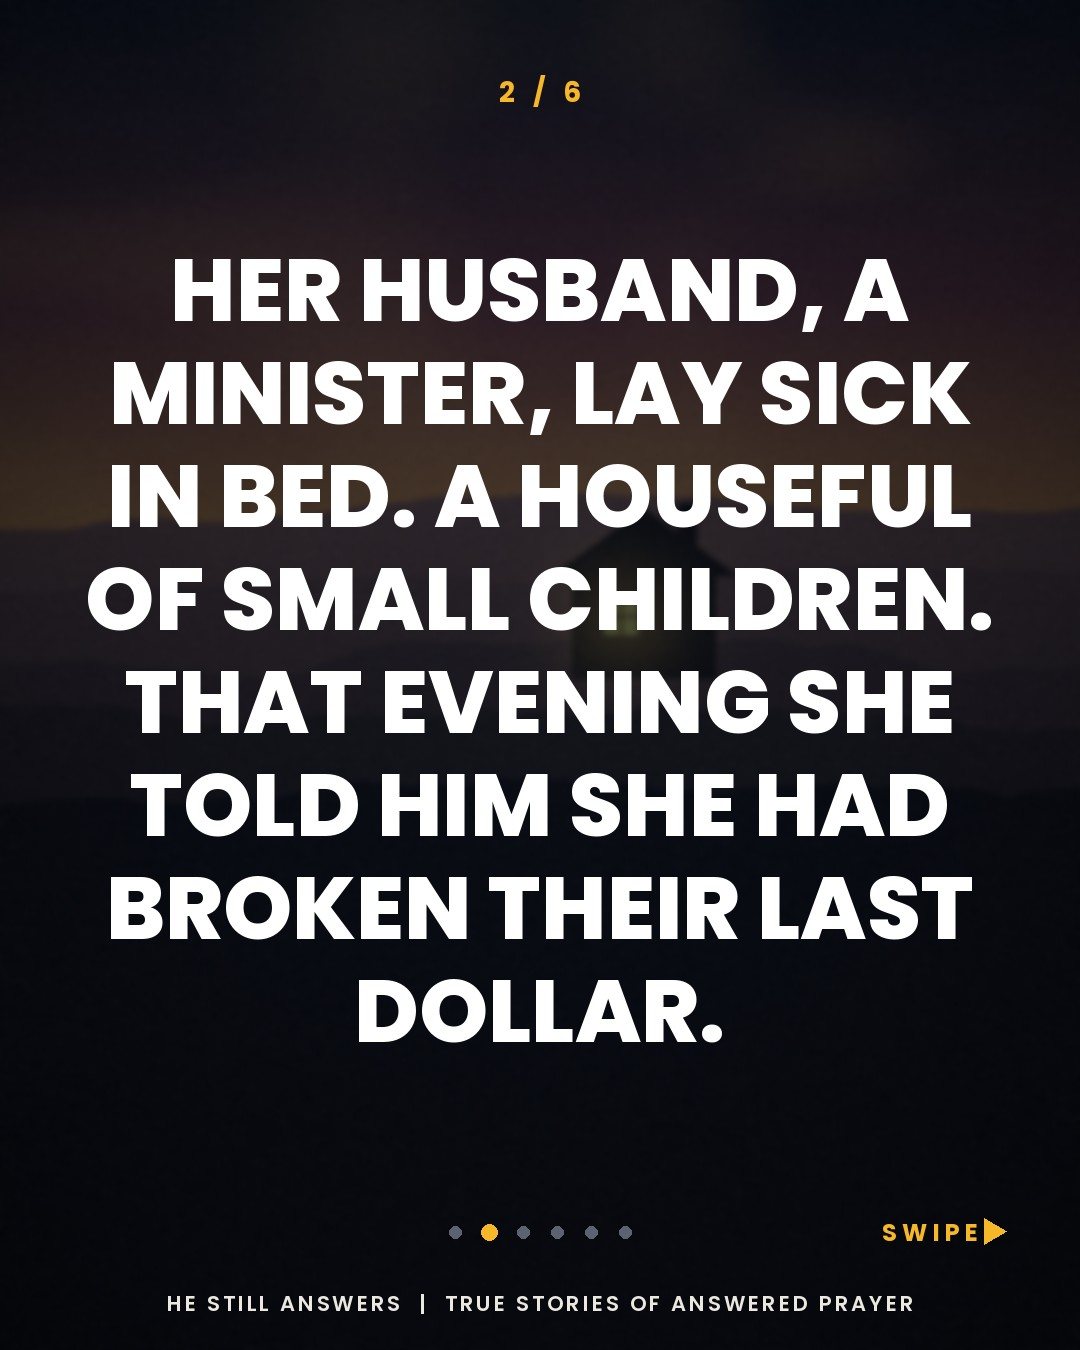
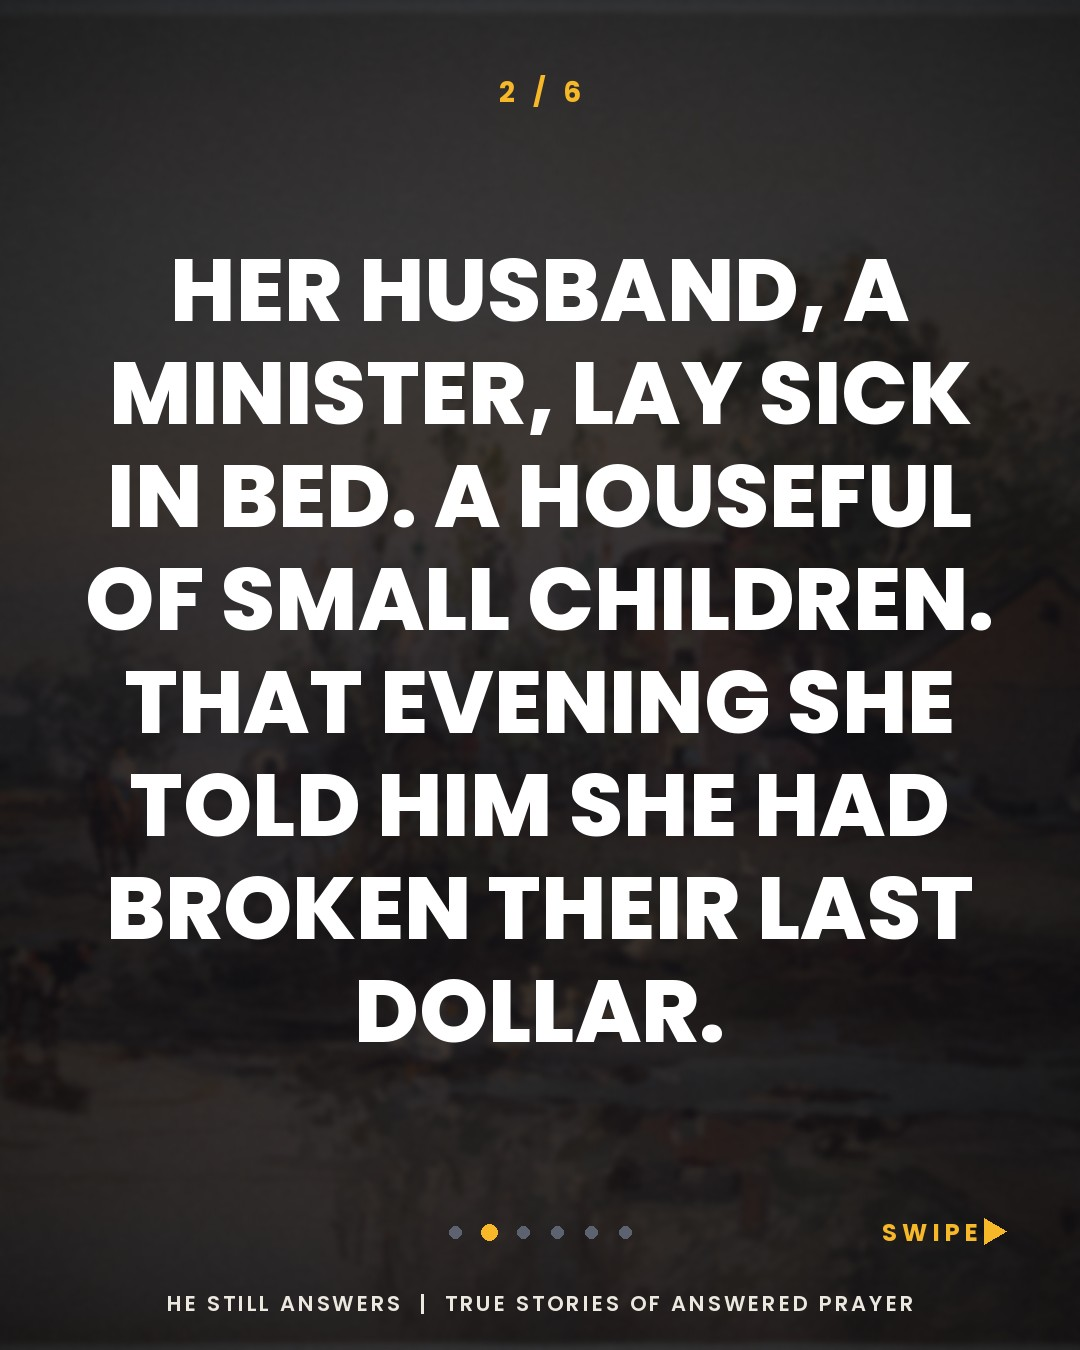
Use the approved NYPL print as the CA04 background.
Credit Frank F. English's farm landscape in the Publer first comment without the Met attribution used for the other works.

diff --git a/engine/build_csv.py b/engine/build_csv.py
@@ -22,7 +22,7 @@ SOURCES = {
 }
 def _credits():
     f = os.path.join(ROOT, 'backgrounds', 'credits.csv')
-    return {r['id']: r['credit'] for r in csv.DictReader(open(f, encoding='utf-8'))} if os.path.exists(f) else {}
+    return {r['id']: r for r in csv.DictReader(open(f, encoding='utf-8'))} if os.path.exists(f) else {}
 CREDITS = _credits()
 
 def parse(path):
@@ -46,7 +46,11 @@ def parse(path):
         p['first_comment'] = SOURCES.get(code, '').format(t=t)
         if code == 'OR' and title: p['first_comment'] = ('An original prayer. ' if p['type'] == 'prayer' else '') + title + '.'
         if code == 'HX': p['first_comment'] = 'Source: ' + title
-        if p['id'] in CREDITS and any(os.path.exists(os.path.join(ROOT, 'backgrounds', p['id'] + e)) for e in ('.jpg', '.jpeg', '.png', '.webp')): p['first_comment'] = (p['first_comment'] + ' Image: ' + CREDITS[p['id']] + '. The Metropolitan Museum of Art, Open Access (public domain).').strip()
+        if p['id'] in CREDITS and any(os.path.exists(os.path.join(ROOT, 'backgrounds', p['id'] + e)) for e in ('.jpg', '.jpeg', '.png', '.webp')):
+            c = CREDITS[p['id']]; note = c['credit']
+            if 'metmuseum.org' in (c.get('url') or ''): note += '. The Metropolitan Museum of Art, Open Access (public domain).'
+            elif not note.endswith('.'): note += '.'
+            p['first_comment'] = (p['first_comment'] + ' Image: ' + note).strip()
         slides = [re.sub(r'\s+', ' ', x.replace('|', ' ').replace('*', '').replace('>>', '').replace('::', ':')).strip() for x in p['headline'].split('||')]
         kind = {'story': 'Illustrated scene with the headline', 'quote': 'Quote card reading', 'prayer': 'Prayer card titled', 'question': 'Question card reading'}.get(p['type'], 'Image reading')
         multi = p['type'] in ('carousel', 'list')
